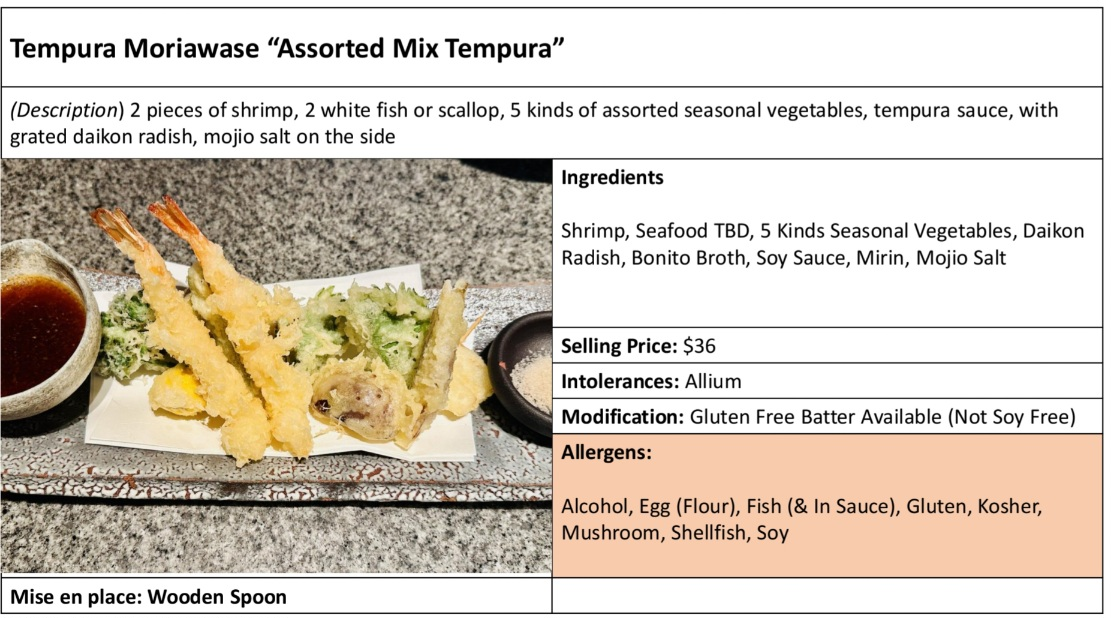
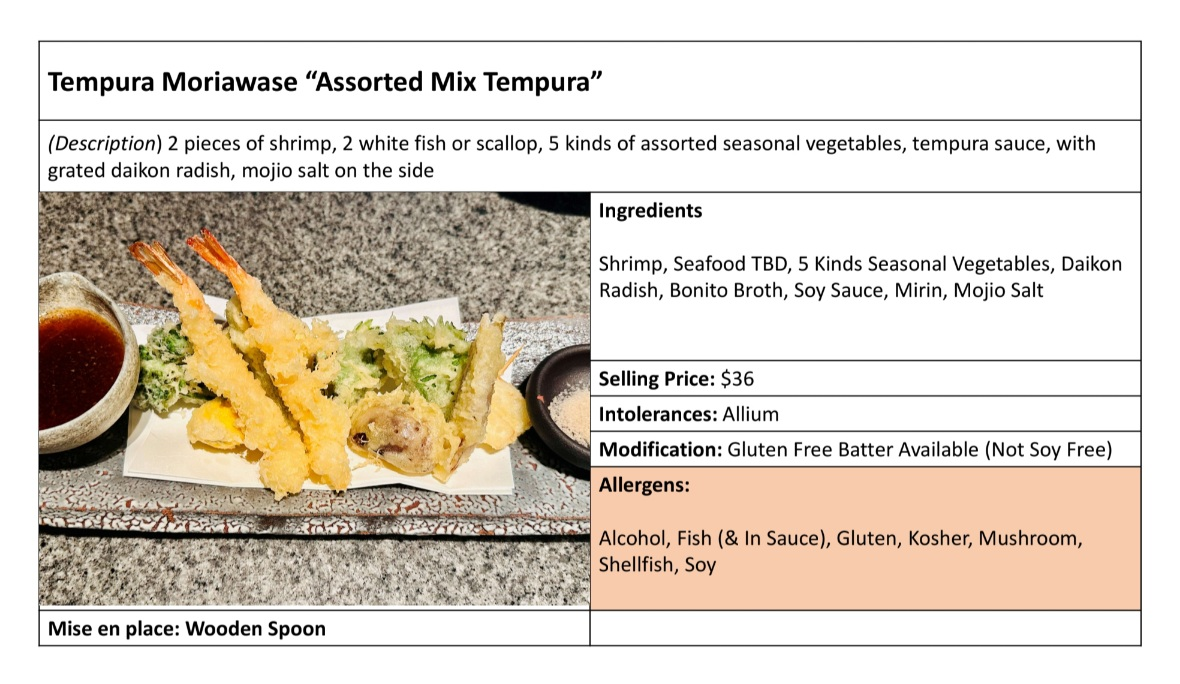
update pic: tempura moriawase

diff --git a/app/manager/page.jsx b/app/manager/page.jsx
@@ -1942,7 +1942,7 @@ export default function ManagerDinnerPage() {
           <div className='modal-content'>
              
           <div>
-            <img src='tempura-moriawase.jpg' />
+            <img src={`tempura-moriawase.jpg?v={Date.now()}`} />
           </div>
           <div className='modal-text'>
                          

diff --git a/app/page.jsx b/app/page.jsx
@@ -2020,7 +2020,7 @@ appetizers, seasonal plates, and dessert.
           <div className='modal-content'>
              
           <div>
-            <img src='tempura-moriawase.jpg' />
+            <img src={`tempura-moriawase.jpg?v={Date.now()}`} />
           </div>
           <div className='modal-text'>
                          
